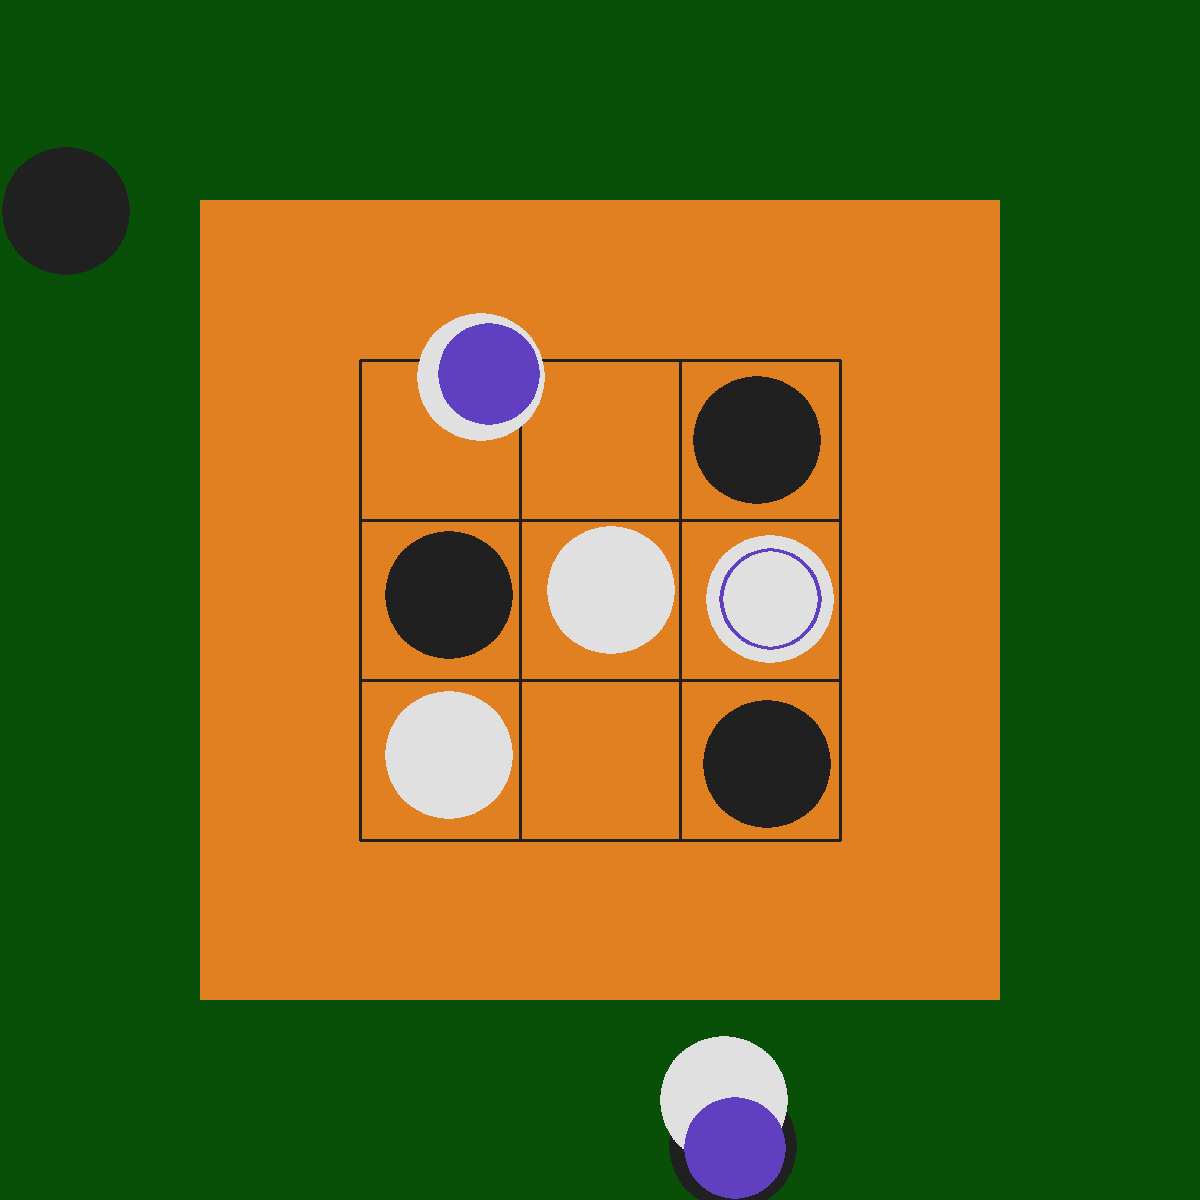
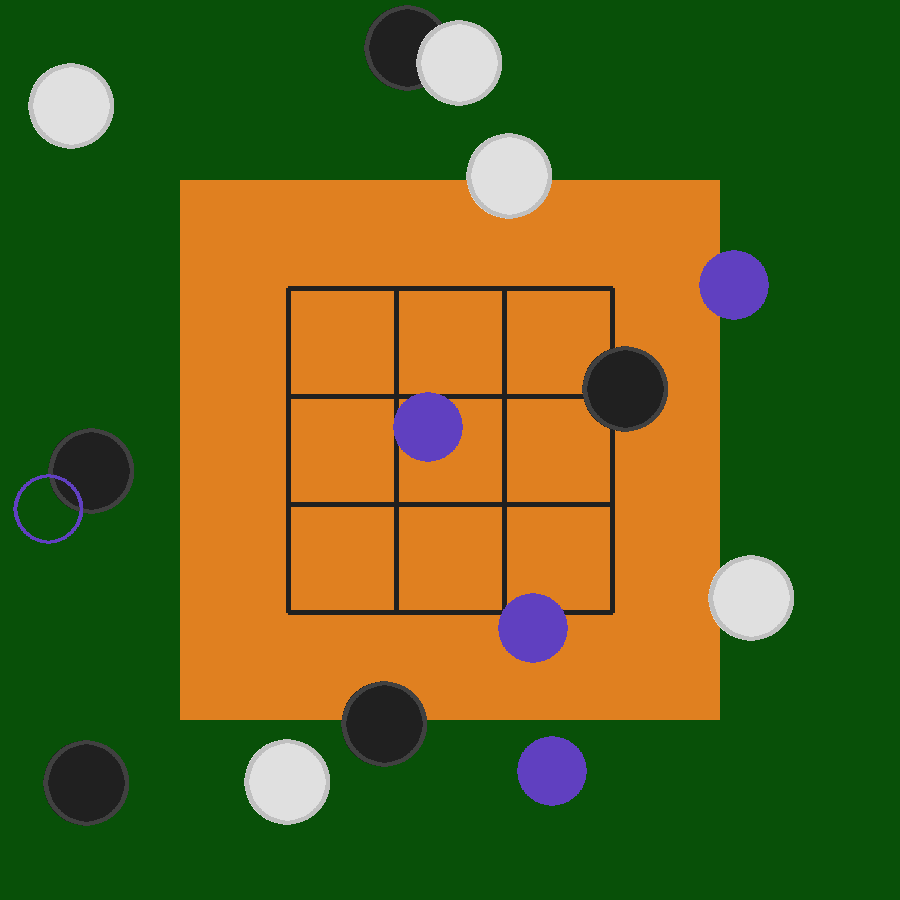
Fine tune demo gif presentation

diff --git a/README.md b/README.md
@@ -5,9 +5,9 @@ Omega Zero, Oz for short, is an exploration of the learning of commonsense knowl
 We call our exploration "Omega Zero" because the goal here is not to win a game as it was for AlphaGo, thus "Omega", but rather learning to play the game without being given specific representations about the game, thus "Zero". Our position is that learning to play a game in a physical environment *de novo* is qualitatively different from and significantly harder than learning to win a game after the agent already knows how to play the game.
 
 <p align="center">
-<img src="demo.gif" align="center" height="600" width="600" alt="Tic-Tac-Toe with 3 agents">
+<img src="demo.gif" align="center" height="400" width="400" alt="Demo of Tic-Tac-Toe with 4 random agents and 1 human player">
 <br/>
-<b>Oz in a Tic-Tac-Toe setup with 3 agents</b>
+<b>Oz in a Tic-Tac-Toe setup with 4 random agents and 1 human player</b>
 </p>
 
 
